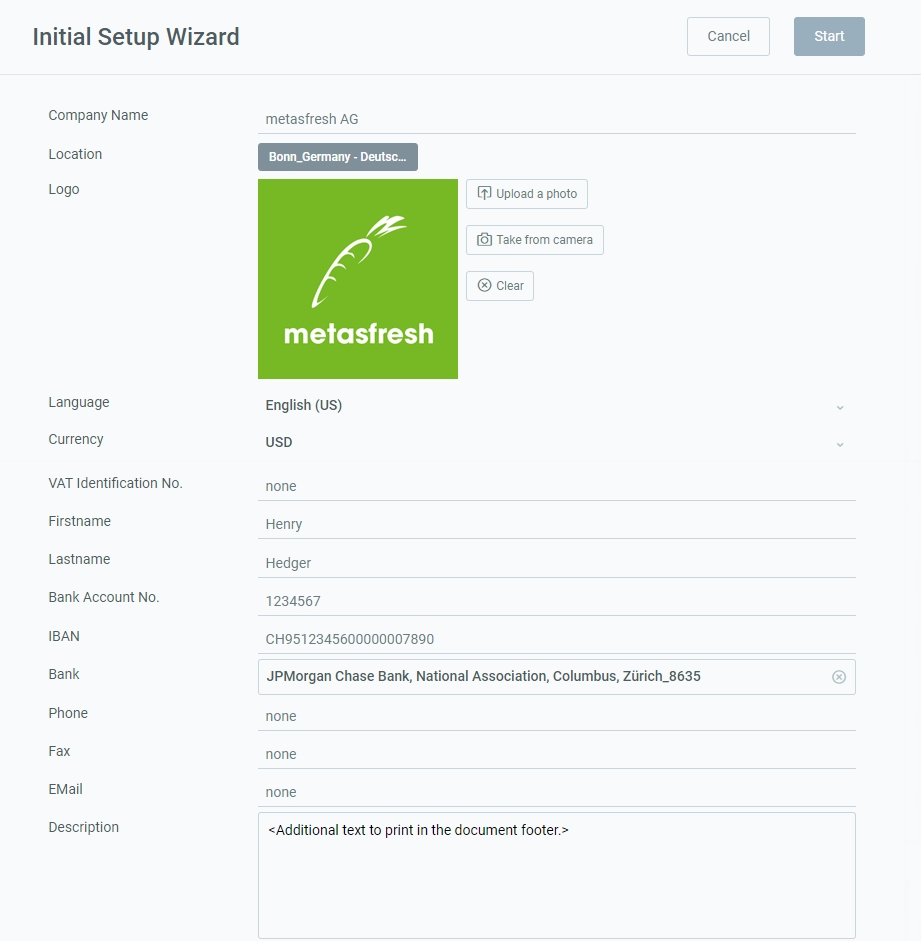
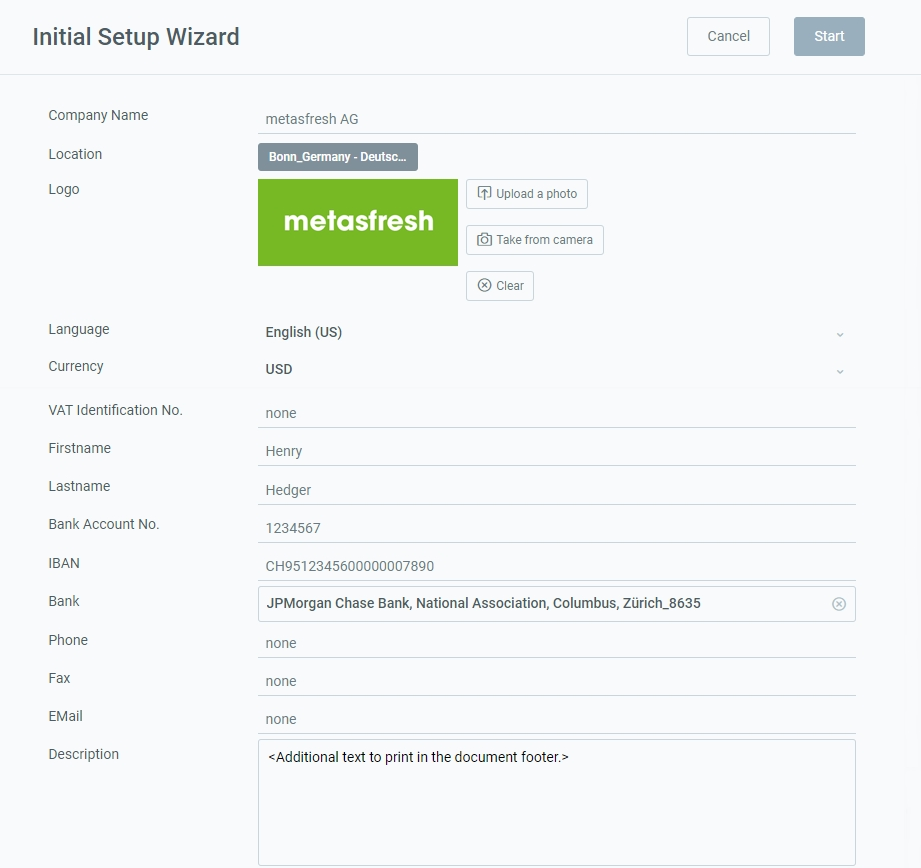
Update ISW+document org timezone (EN+DE)
- reorganized section
- updated pngs
- renamed DE doc to Ersteinrichtungsassistent and updated references
where necessary

this is about issue #656

diff --git a/_webui_collection/EN/InitialSetupWizard.md b/_webui_collection/EN/InitialSetupWizard.md
@@ -10,21 +10,34 @@ ref: initialsetupwizard
 ---
 
 ## Overview
-Follow these steps to replace the information of the existing client "metasfresh", which is provided by default, with your own company information. All contact information (address, email, bank account details, etc.) will also appear on all documents in the address line and the document footer.
+Follow these steps to replace the information of the existing client "metasfresh", which is provided by default, with your own company information. All contact information (address, email, bank account details, etc.) will also appear on all documents in both the address line and the document footer.
 
 For additional information on how to place manual text on documents, please see [here](Print_text_on_documents-general).
 
 ## Steps
 1. Open the "Initial Setup Wizard" from the [menu](Menu).
-1. Upload an image as your logo via ![](assets/Upload photo button.png) or ![](assets/Webcam button.png).
- >**Note 1:** The logo should not be bigger than 200x200 pixels to fit nicely on the documents.<br><br>
- >**Note 2:** To remove the photo, simply click ![](assets/Remove photo button.png).
+1. Enter your **Company Name** the way it shall appear on documents.
+1. Enter your company's **Location** the way it shall appear on documents.
+ >**Note 1:** You have to enter least the country so that the settings can be saved correctly.<br><br>
+ >**Note 2:** For a consistent calculation of dates and times at an international level, you can set the [reference time zone for an organization](Org_time_zone_setting).
 
-1. Fill in the desired fields.
+1. Upload an image as your **Logo** via !["Upload a photo"](assets/Upload photo button.png) or !["Take from camera"](assets/Webcam button.png).
+ >**Note 1:** The logo should not be bigger than 200x200 pixels to fit nicely on the documents.<br><br>
+ >**Note 2:** To remove the photo, simply click !["Clear"](assets/Remove photo button.png).
+
+1. Pick a **Language**.
+1. Pick a **Currency** to be used as default currency in metasfresh.
+1. Fill in the other fields as required, e.g., **VAT ID**, **Account No**, **IBAN**, etc.
  >**Note:** The text box **Description** is restricted to 90 characters.
 
 1. Click "Start" to apply the changes and close the setup wizard.
- >**Note:** You can apply the wizard as often as required to update your company details.
+ >**Note:** You can open the wizard as often as required to update your company details.
+
+<br>
+
+| **Note:** |
+| :--- |
+| You can also look up the complete business partner entry with your company details under "[Businesspartner Dist-Orgs](Menu)" in the menu. |
 
 ## Example
 ![](assets/InitialSetupWizard.png)

diff --git a/_webui_collection/DE/Ersteinrichtungsassistent.md b/_webui_collection/DE/Ersteinrichtungsassistent.md
@@ -1,0 +1,43 @@
+---
+title: Wie stelle ich meine eigenen Firmendaten ein (Ersteinrichtungsassistent)?
+layout: default
+tags:
+  - Anfängertipps für metasfresh
+  - Einrichtung
+lang: de
+sequence: 20
+ref: initialsetupwizard
+---
+
+## Überblick
+Mit den folgenden Schritten kannst Du die Daten des bestehenden Mandanten "metasfresh", der standardmäßig enthalten ist, mit Deinen eigenen Firmendaten ersetzen. Die Kontaktdaten (Anschrift, E-Mail, Bankverbindung usw.) erscheinen dann ebenfalls auf allen Belegen sowohl in der Adresszeile als auch am Belegfuß.
+
+Weitere Informationen darüber, wie Du eigenen Text in Belege einfügen kannst, gibt es [hier](Text_auf_Belege_drucken-allgemein).
+
+## Schritte
+1. [Gehe ins Menü](Menu) und öffne das Fenster "Ersteinrichtung Assistent".
+1. Trage in das Feld **Firmenname** den Namen Deiner Firma ein, wie er auf Belegen erscheinen soll.
+1. Erfasse die **Anschrift** Deiner Firma, wie sie auf Belegen erscheinen soll.
+ >**Hinweis 1:** Es muss mindestens das Land angegeben werden, damit die Einstellungen korrekt gespeichert werden können.<br><br>
+ >**Hinweis 2:** Zur einheitlichen Bestimmung von Daten und Terminen auf internationaler Ebene kannst Du die [maßgebende Zeitzone einer Organisation festlegen](Org_Zeitzone_einstellen).
+
+1. Lade ein **Logo** über !["Foto hochladen"](assets/Foto hochladen Button.png) oder !["Foto von Webcam"](assets/Foto Webcam Button.png) hoch.
+ >**Hinweis 1:** Das Logo sollte nicht größer als 200x200 Pixel sein, um eine optimale Passform für die Belege zu haben.<br><br>
+ >**Hinweis 2:** Um das Foto wieder zu entfernen, klicke einfach auf !["Zurücksetzen"](assets/Foto entfernen Button.png).
+
+1. Wähle eine **Sprache** aus.
+1. Wähle eine **Währung** aus, die in metasfresh als Stammwährung verwendet werden soll.
+1. Fülle die weiteren Felder nach Bedarf aus, z.B. **Umsatzsteuer ID**, **Konto-Nr.**, **IBAN** usw.
+ >**Hinweis:** Das Textfeld **Beschreibung** ist auf 90 Zeichen beschränkt.
+
+1. Klicke auf "Start", um die Änderungen zu übernehmen und den Einrichtungsassistenten zu schließen.
+ >**Hinweis:** Du kannst den Assistenten beliebig oft verwenden, um die Firmendaten anzupassen.
+
+<br>
+
+| **Hinweis:** |
+| :--- |
+| Den gesamten Geschäftspartnereintrag mit Deinen Firmendaten findest Du unter dem Menüpunkt "[Organisation Stammdaten](Menu)" wieder. |
+
+## Beispiel
+![](assets/Ersteinrichtungsassistent.png)

diff --git a/_webui_collection/DE/Org_Zeitzone_einstellen.md b/_webui_collection/DE/Org_Zeitzone_einstellen.md
@@ -1,0 +1,26 @@
+---
+title: Wie stelle ich die Zeitzone einer Organisation ein?
+layout: default
+tags:
+  - Anfängertipps für metasfresh
+  - Einrichtung
+lang: de
+sequence: 30
+ref: org_time_zone_setting
+---
+
+## Überblick
+In metasfresh kannst Du die Zeitzonen von Organisationen individuell anpassen. So wird sichergestellt, dass die interne Terminplanung innerhalb einer Organisation stets einheitlich ist und nicht unbeabsichtigt von internationalen Standortwechseln durcheinandergebracht wird.
+
+## Schritte
+1. [Gehe ins Menü](Menu) und öffne das Fenster "Organisation".
+1. Öffne den Eintrag der Organisation, für die Du die Zeitzone einstellen möchtest.
+1. Gehe zur Registerkarte "Organisations-Daten" unten auf der Seite und öffne die "[Erweiterte Erfassung](AdvancedEditTab_Öffnen)" der Organisationszeile.
+1. Gib im Feld **Time Zone** (*Zeitzone*) einen Teil der Bezeichnung der gewünschten Zeitzone ein und klicke auf den passenden Treffer in der [Dropdown-Liste](Keyboard_Shortcuts_Liste).
+ >**Hinweis:** Um bestimmte Zeitzonen zu finden, kannst Du die Namen aus der <a href="https://www.iana.org/time-zones" title="IANA Time Zone Database" target="blank">IANA-Datenbank</a> verwenden, so z.B. "Etc/GMT+1" oder "Europe/Berlin" (siehe auch die Liste der Zeitzonen auf <a href="https://en.wikipedia.org/wiki/List_of_tz_database_time_zones" title="List of tz database time zones" target="blank">Wikipedia</a>).
+
+1. Klicke auf "Bestätigen", um das Overlay-Fenster zu schließen und die Zeitzone zu übernehmen.
+
+| **Hinweis:** |
+| :--- |
+| Wenn für eine Organisation keine Zeitzone eingestellt ist, greift metasfresh standardmäßig auf die Zeitzone des Serverstandortes zurück, um Termine und Daten automatisch zu bestimmen, wie z.B. den zugesagten Termin oder das Bereitstellungsdatum eines Auftrages. |

diff --git a/_webui_collection/EN/Org_time_zone_setting.md b/_webui_collection/EN/Org_time_zone_setting.md
@@ -1,0 +1,26 @@
+---
+title: How do I set the time zone for an organization?
+layout: default
+tags:
+  - A Beginner's Guide to metasfresh
+  - Setup
+lang: en
+sequence: 30
+ref: org_time_zone_setting
+---
+
+## Overview
+In metasfresh you can set the time zones of organizations individually. This ensures that internal planning and scheduling within an organization is always consistent and not unintentionally disrupted by international location changes.
+
+## Steps
+1. Open "Organisation" from the [menu](Menu).
+1. Open the entry of the organization for which you want to set the time zone.
+1. Go to the record tab "Organization Info" at the bottom of the page and open the [advanced edit menu](Open_AdvancedEditTab) of the organization line.
+1. In the field **Time Zone**, enter a part of the name of the desired time zone and click on the matching result in the [drop-down list](Keyboard_shortcuts_reference).
+ >**Note:** To find certain time zones you can use the names from the <a href="https://www.iana.org/time-zones" title="IANA Time Zone Database" target="blank">IANA database</a>, such as "Etc/GMT+1" or "Europe/Berlin" (see also the list of time zones on <a href="https://en.wikipedia.org/wiki/List_of_tz_database_time_zones" title="List of tz database time zones" target="blank">Wikipedia</a>).
+
+1. Click "Done" to close the overlay window and save the time zone.
+
+| **Note:** |
+| :--- |
+| If no time zone is set for an organization, metasfresh reverts to the time zone of the server location by default to calculate dates and times automatically, such as the date promised or the date of provisioning of a sales order. |

diff --git a/_webui_collection/DE/AdvancedEditTab_Öffnen.md b/_webui_collection/DE/AdvancedEditTab_Öffnen.md
@@ -13,7 +13,7 @@ ref: open_advancededittab
 ## Schritte
 1. Gehe zur betreffenden Registerkarte, z.B. "Kunde" unter "Geschäftspartner".
 1. Gehe mit dem Mauszeiger über die betreffende Zeile und öffne mit einem Rechtsklick das Kontextmenü.
-1. Klicke auf "Erweiterte Erfassung", um das Menü für die erweiterte Erfassung zu öffnen.
+1. Klicke auf "Erweiterte Erfassung", um das Menü für die erweiterte Erfassung in einem Overlay-Fenster zu öffnen.
  >**Hinweis:** Drücke alternativ `Alt` + `E` / `⌥ alt` + `E`, wenn Du die betreffende Zeile ausgewählt hast.
 
  ![](assets/AdvancedEdit_KontextMenü.png)

diff --git a/_webui_collection/DE/Waehrungskurs.md b/_webui_collection/DE/Waehrungskurs.md
@@ -13,7 +13,7 @@ ref: currency_rate
 Wenn Du mit einer anderen Währung als Deiner Stammwährung arbeiten möchtest, musst Du einen Währungskurs für die Umrechnung einstellen.
 
 **Beispiel:**<br>
-Du hast Dein metasfresh System mit dem [Einrichtungsassistenten](Ersteinrichtung) auf EUR eingestellt, möchtest aber auch mit USD arbeiten.
+Du hast Dein metasfresh System mit dem [Einrichtungsassistenten](Ersteinrichtungsassistent) auf EUR eingestellt, möchtest aber auch mit USD arbeiten.
 
 ## Schritte
 1. [Gehe ins Menü](Menu) und öffne das Fenster "Währungskurs".

diff --git a/_webui_collection/EN/Open_AdvancedEditTab.md b/_webui_collection/EN/Open_AdvancedEditTab.md
@@ -13,7 +13,7 @@ ref: open_advancededittab
 ## Steps
 1. Go to the record tab in question, e.g., "Customer" under "Business Partner".
 1. Hover with your mouse cursor over the line concerned and right-click it to open the context menu.
-1. Click on "Advanced edit" to open the advanced edit menu.
+1. Click on "Advanced edit" to open the advanced edit menu in an overlay window.
  >**Note:** Alternatively, press `Alt` + `E` / `⌥ alt` + `E` when the line concerned is selected.
 
  ![](assets/AdvancedEdit_ContextMenu.png)

diff --git a/_webui_collection/DE/Text_auf_Belege_drucken-allgemein.md b/_webui_collection/DE/Text_auf_Belege_drucken-allgemein.md
@@ -25,7 +25,7 @@ Auf der folgenden Abbildung eines Angebots werden die modifizierbaren Textstelle
 ## Ersteinrichtungsassistent
 
 #### Anschrift des Absenders und Belegfuß bearbeiten
-Klicke [hier](Ersteinrichtung), wenn Du die Textstellen mithilfe des Ersteinrichtungsassistenten bearbeiten möchtest.
+Klicke [hier](Ersteinrichtungsassistent), wenn Du die Textstellen mithilfe des Ersteinrichtungsassistenten bearbeiten möchtest.
 
 ---
 

diff --git a/_webui_collection/DE/Schnelleinstieg.md b/_webui_collection/DE/Schnelleinstieg.md
@@ -16,7 +16,7 @@ ref: quickstart
 1. [Melde Dich bei metasfresh an](Anmeldung).
 1. [Ändere Dein Passwort](Passwort_aendern).
 1. [Wähle Deine Sprache](SwitchLanguage).
-1. [Stelle Deine Firmendaten ein](Ersteinrichtung).
+1. [Stelle Deine Firmendaten ein](Ersteinrichtungsassistent).
 1. [Spiele einen Beispiel-Workflow durch](Workflow_Auftrag_Bis_Rechnung).
 
 ## Tutorial

diff --git a/_webui_collection/DE/Textbaustein_erstellen.md b/_webui_collection/DE/Textbaustein_erstellen.md
@@ -5,7 +5,7 @@ tags:
   - Anfängertipps für metasfresh
   - Einrichtung
 lang: de
-sequence: 60
+sequence: 70
 ref: create_boiler_plate
 ---
 

diff --git a/_webui_collection/DE/Benachrichtigungsarten.md b/_webui_collection/DE/Benachrichtigungsarten.md
@@ -5,7 +5,7 @@ tags:
   - Anfängertipps für metasfresh
   - Einrichtung
 lang: de
-sequence: 40
+sequence: 50
 ref: notification_types
 ---
 

diff --git a/_webui_collection/DE/Druckformat_anlegen.md b/_webui_collection/DE/Druckformat_anlegen.md
@@ -5,7 +5,7 @@ tags:
   - Anfängertipps für metasfresh
   - Einrichtung
 lang: de
-sequence: 50
+sequence: 60
 ref: add_print_format
 ---
 
